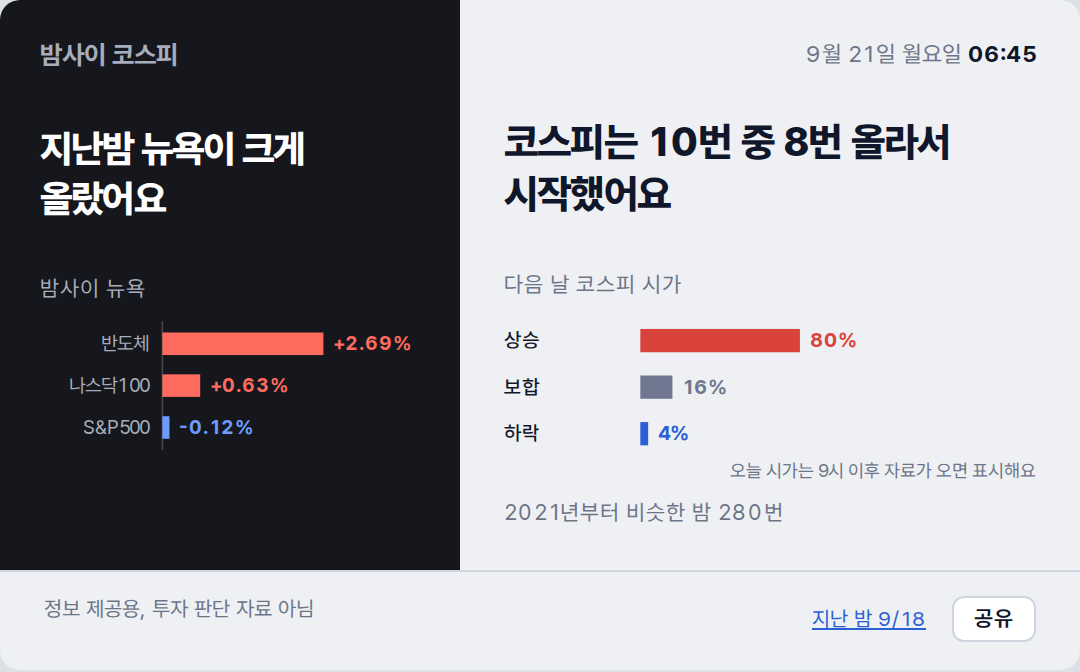
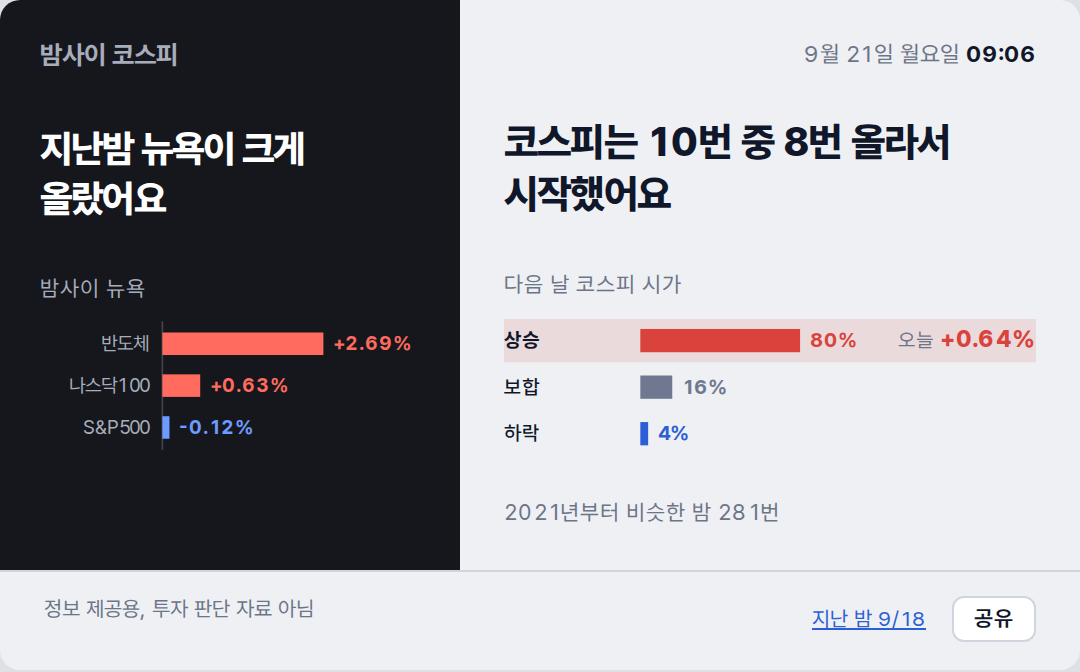
deploy: 25a71b42164be134cda9a9bcc22c21e8d2dd8ef2

diff --git a/2026-09-21/index.html b/2026-09-21/index.html
@@ -38,18 +38,19 @@ footer a{color:#2C5FD6}
 <rect x="76" y="61" width="4.4" height="14" fill="var(--down)"/>
 <text x="86.4" y="72" fill="var(--down)" font-weight="700">-0.12%</text>
 </svg></section>
-<section class="day"><p class="stamp">9월 21일 월요일 <b>06:45</b></p><p class="claim">코스피는 10번 중 8번 올라서 시작했어요</p><p class="lab">다음 날 코스피 시가</p><svg viewBox="0 0 320 100" xmlns="http://www.w3.org/2000/svg" font-family="var(--sans)" font-size="12">
-<text x="0" y="20" fill="var(--ink)" font-weight="500">상승</text>
-<rect x="82" y="9" width="96.0" height="14" fill="var(--up)"/>
-<text x="184.0" y="20" fill="var(--up)" font-weight="700">80%</text>
+<section class="day"><p class="stamp">9월 21일 월요일 <b>09:06</b></p><p class="claim">코스피는 10번 중 8번 올라서 시작했어요</p><p class="lab">다음 날 코스피 시가</p><svg viewBox="0 0 320 100" xmlns="http://www.w3.org/2000/svg" font-family="var(--sans)" font-size="12">
+<rect x="0" y="3" width="320" height="26" fill="var(--up)" opacity=".12"/>
+<text x="0" y="20" fill="var(--ink)" font-weight="700">상승</text>
+<rect x="82" y="9" width="96.1" height="14" fill="var(--up)"/>
+<text x="184.1" y="20" fill="var(--up)" font-weight="700">80%</text>
+<text x="320" y="20" text-anchor="end" fill="var(--ink)"><tspan fill="var(--muted)">오늘 </tspan><tspan font-weight="800" font-size="14" fill="var(--up)">+0.64%</tspan></text>
 <text x="0" y="48" fill="var(--ink)" font-weight="500">보합</text>
-<rect x="82" y="37" width="19.3" height="14" fill="var(--flat)"/>
-<text x="107.3" y="48" fill="var(--flat)" font-weight="700">16%</text>
+<rect x="82" y="37" width="19.2" height="14" fill="var(--flat)"/>
+<text x="107.2" y="48" fill="var(--flat)" font-weight="700">16%</text>
 <text x="0" y="76" fill="var(--ink)" font-weight="500">하락</text>
 <rect x="82" y="65" width="4.7" height="14" fill="var(--down)"/>
 <text x="92.7" y="76" fill="var(--down)" font-weight="700">4%</text>
-<text x="320" y="98" text-anchor="end" fill="var(--muted)" font-size="11">오늘 시가는 9시 이후 자료가 오면 표시해요</text>
-</svg><p class="cap">2021년부터 비슷한 밤 280번</p></section>
+</svg><p class="cap">2021년부터 비슷한 밤 281번</p></section>
 <footer><span>정보 제공용, 투자 판단 자료 아님</span><span style="white-space:nowrap"><a href="../2026-09-18/">지난 밤 9/18</a> <button class="share" type="button">공유</button></span></footer>
 <script>
 /* 공유: Web Share가 있으면 시스템 공유 시트, 없으면 링크 복사. 링크는 이 날짜 페이지(OG 카드 붙음) */

diff --git a/index.html b/index.html
@@ -38,18 +38,19 @@ footer a{color:#2C5FD6}
 <rect x="76" y="61" width="4.4" height="14" fill="var(--down)"/>
 <text x="86.4" y="72" fill="var(--down)" font-weight="700">-0.12%</text>
 </svg></section>
-<section class="day"><p class="stamp">9월 21일 월요일 <b>06:45</b></p><p class="claim">코스피는 10번 중 8번 올라서 시작했어요</p><p class="lab">다음 날 코스피 시가</p><svg viewBox="0 0 320 100" xmlns="http://www.w3.org/2000/svg" font-family="var(--sans)" font-size="12">
-<text x="0" y="20" fill="var(--ink)" font-weight="500">상승</text>
-<rect x="82" y="9" width="96.0" height="14" fill="var(--up)"/>
-<text x="184.0" y="20" fill="var(--up)" font-weight="700">80%</text>
+<section class="day"><p class="stamp">9월 21일 월요일 <b>09:06</b></p><p class="claim">코스피는 10번 중 8번 올라서 시작했어요</p><p class="lab">다음 날 코스피 시가</p><svg viewBox="0 0 320 100" xmlns="http://www.w3.org/2000/svg" font-family="var(--sans)" font-size="12">
+<rect x="0" y="3" width="320" height="26" fill="var(--up)" opacity=".12"/>
+<text x="0" y="20" fill="var(--ink)" font-weight="700">상승</text>
+<rect x="82" y="9" width="96.1" height="14" fill="var(--up)"/>
+<text x="184.1" y="20" fill="var(--up)" font-weight="700">80%</text>
+<text x="320" y="20" text-anchor="end" fill="var(--ink)"><tspan fill="var(--muted)">오늘 </tspan><tspan font-weight="800" font-size="14" fill="var(--up)">+0.64%</tspan></text>
 <text x="0" y="48" fill="var(--ink)" font-weight="500">보합</text>
-<rect x="82" y="37" width="19.3" height="14" fill="var(--flat)"/>
-<text x="107.3" y="48" fill="var(--flat)" font-weight="700">16%</text>
+<rect x="82" y="37" width="19.2" height="14" fill="var(--flat)"/>
+<text x="107.2" y="48" fill="var(--flat)" font-weight="700">16%</text>
 <text x="0" y="76" fill="var(--ink)" font-weight="500">하락</text>
 <rect x="82" y="65" width="4.7" height="14" fill="var(--down)"/>
 <text x="92.7" y="76" fill="var(--down)" font-weight="700">4%</text>
-<text x="320" y="98" text-anchor="end" fill="var(--muted)" font-size="11">오늘 시가는 9시 이후 자료가 오면 표시해요</text>
-</svg><p class="cap">2021년부터 비슷한 밤 280번</p></section>
+</svg><p class="cap">2021년부터 비슷한 밤 281번</p></section>
 <footer><span>정보 제공용, 투자 판단 자료 아님</span><span style="white-space:nowrap"><a href="./2026-09-18/">지난 밤 9/18</a> <button class="share" type="button">공유</button></span></footer>
 <script>
 /* 공유: Web Share가 있으면 시스템 공유 시트, 없으면 링크 복사. 링크는 이 날짜 페이지(OG 카드 붙음) */
